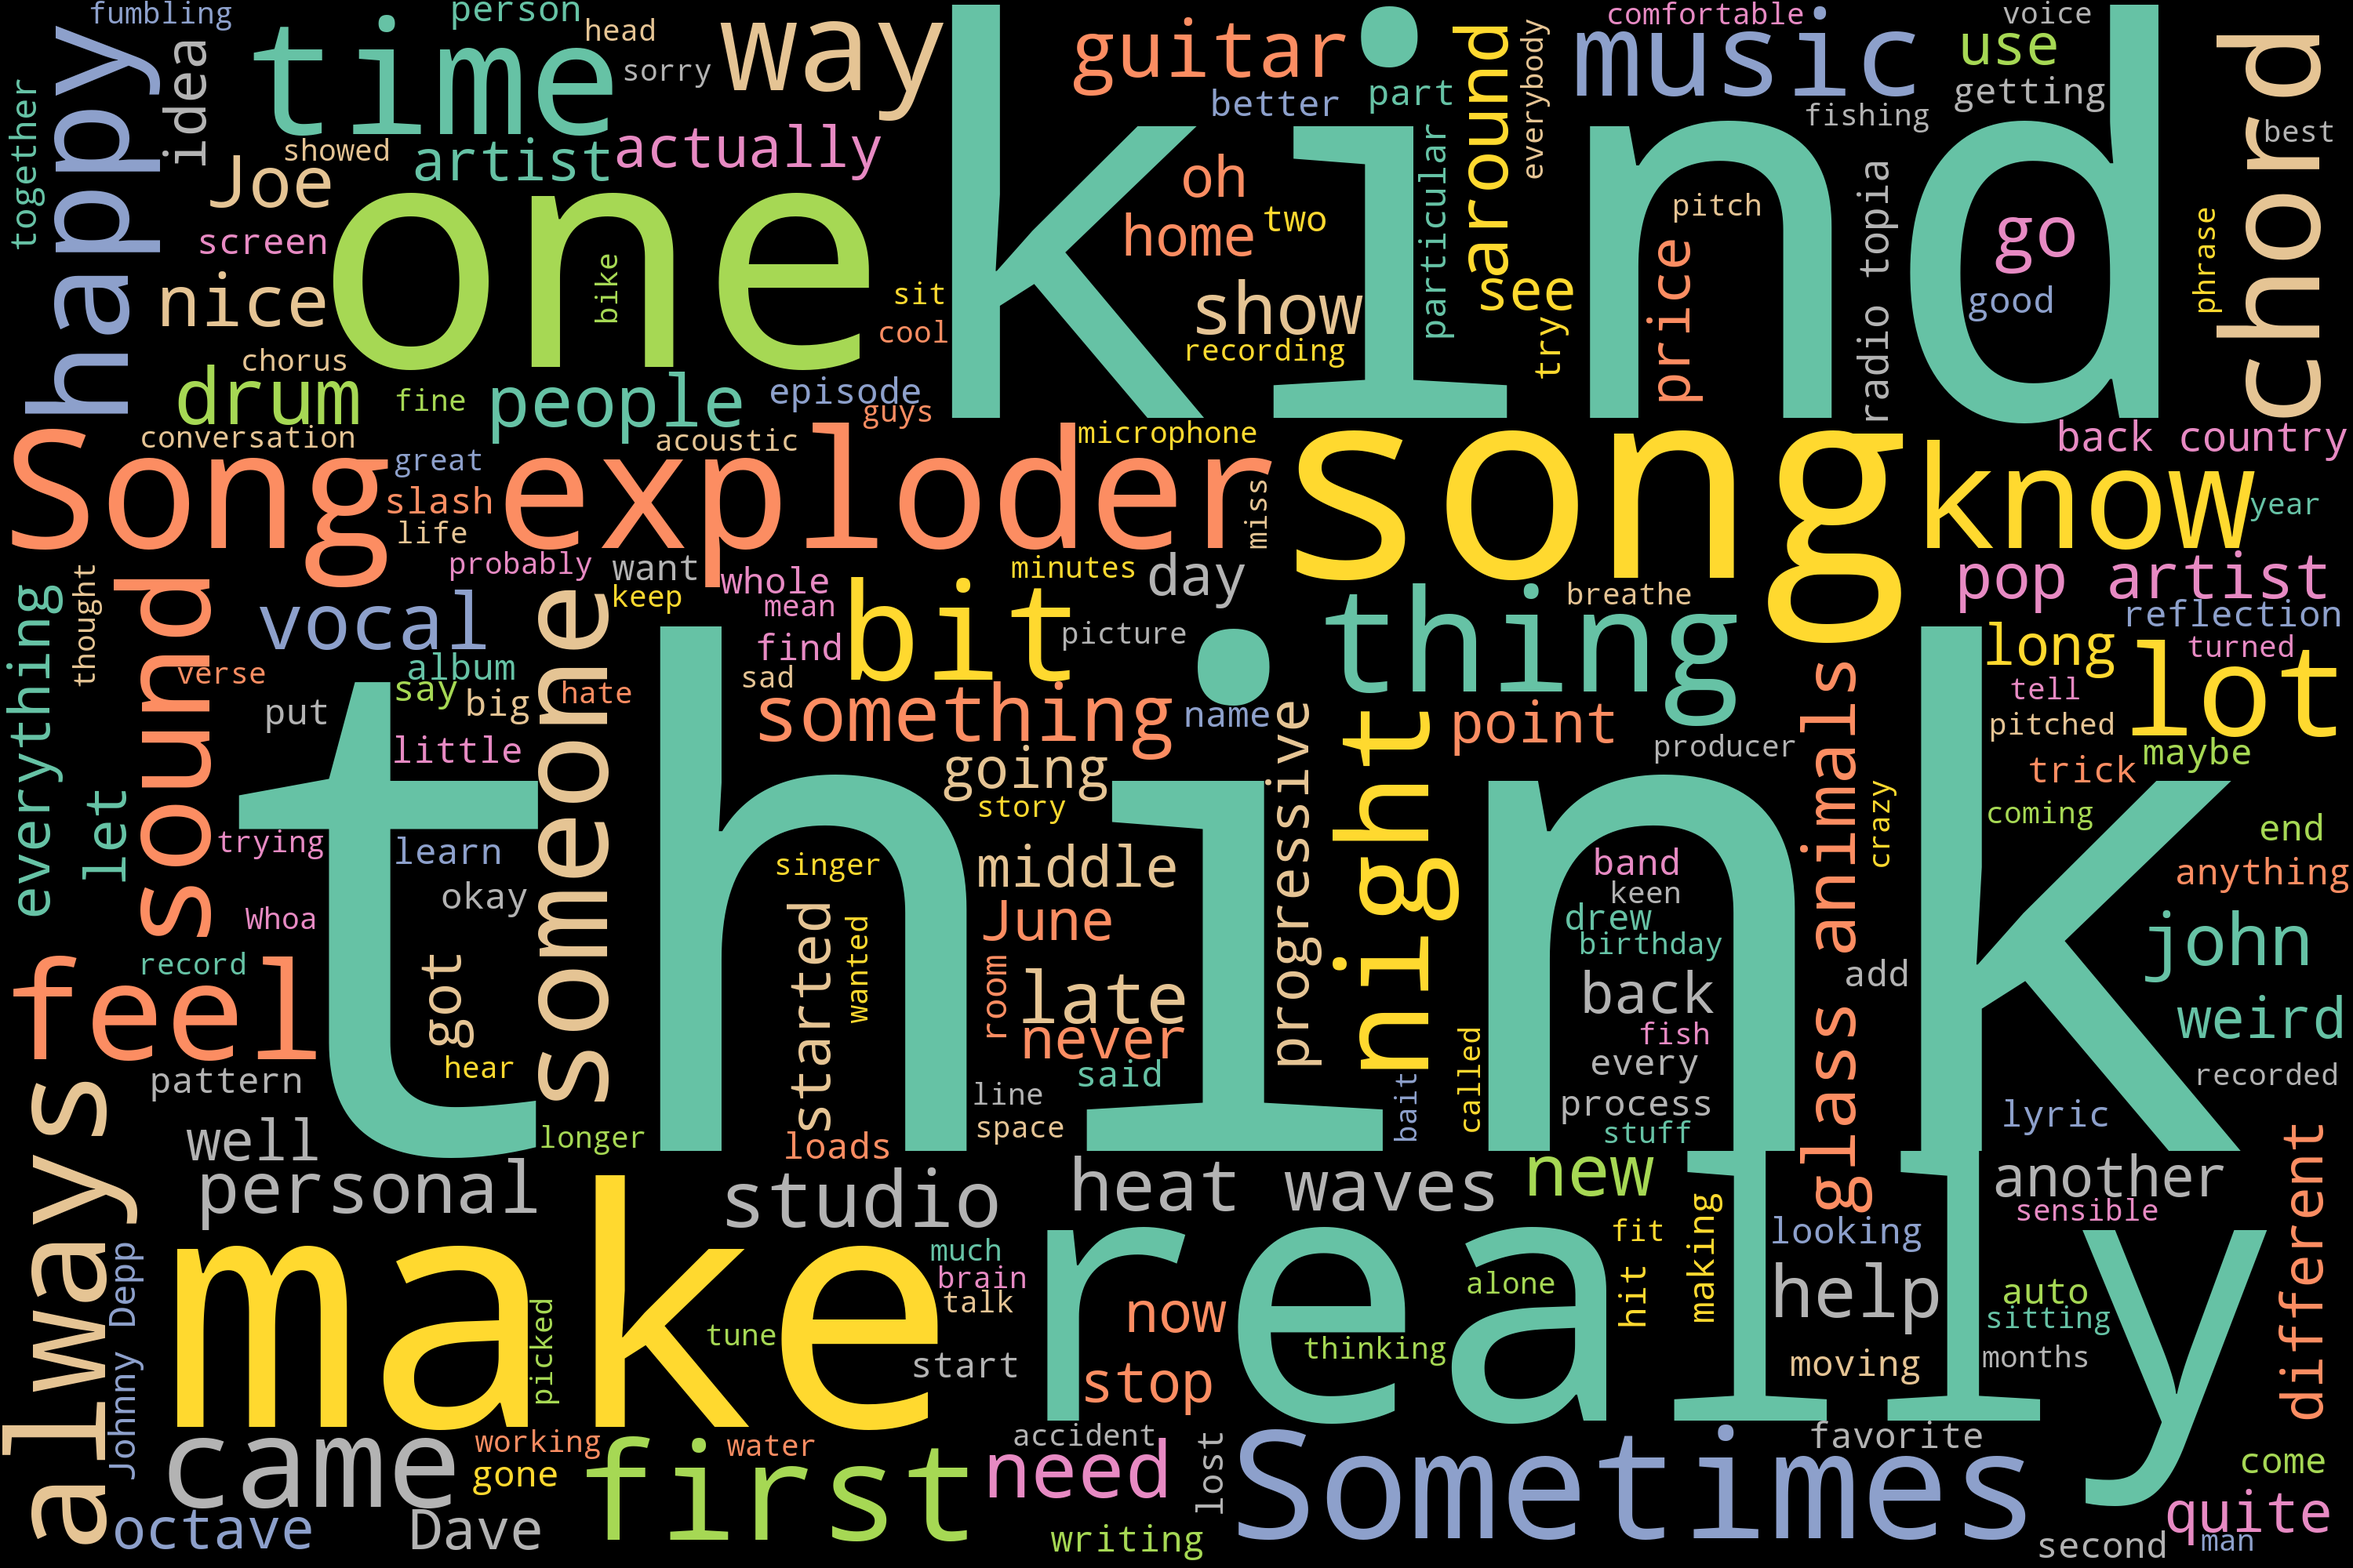
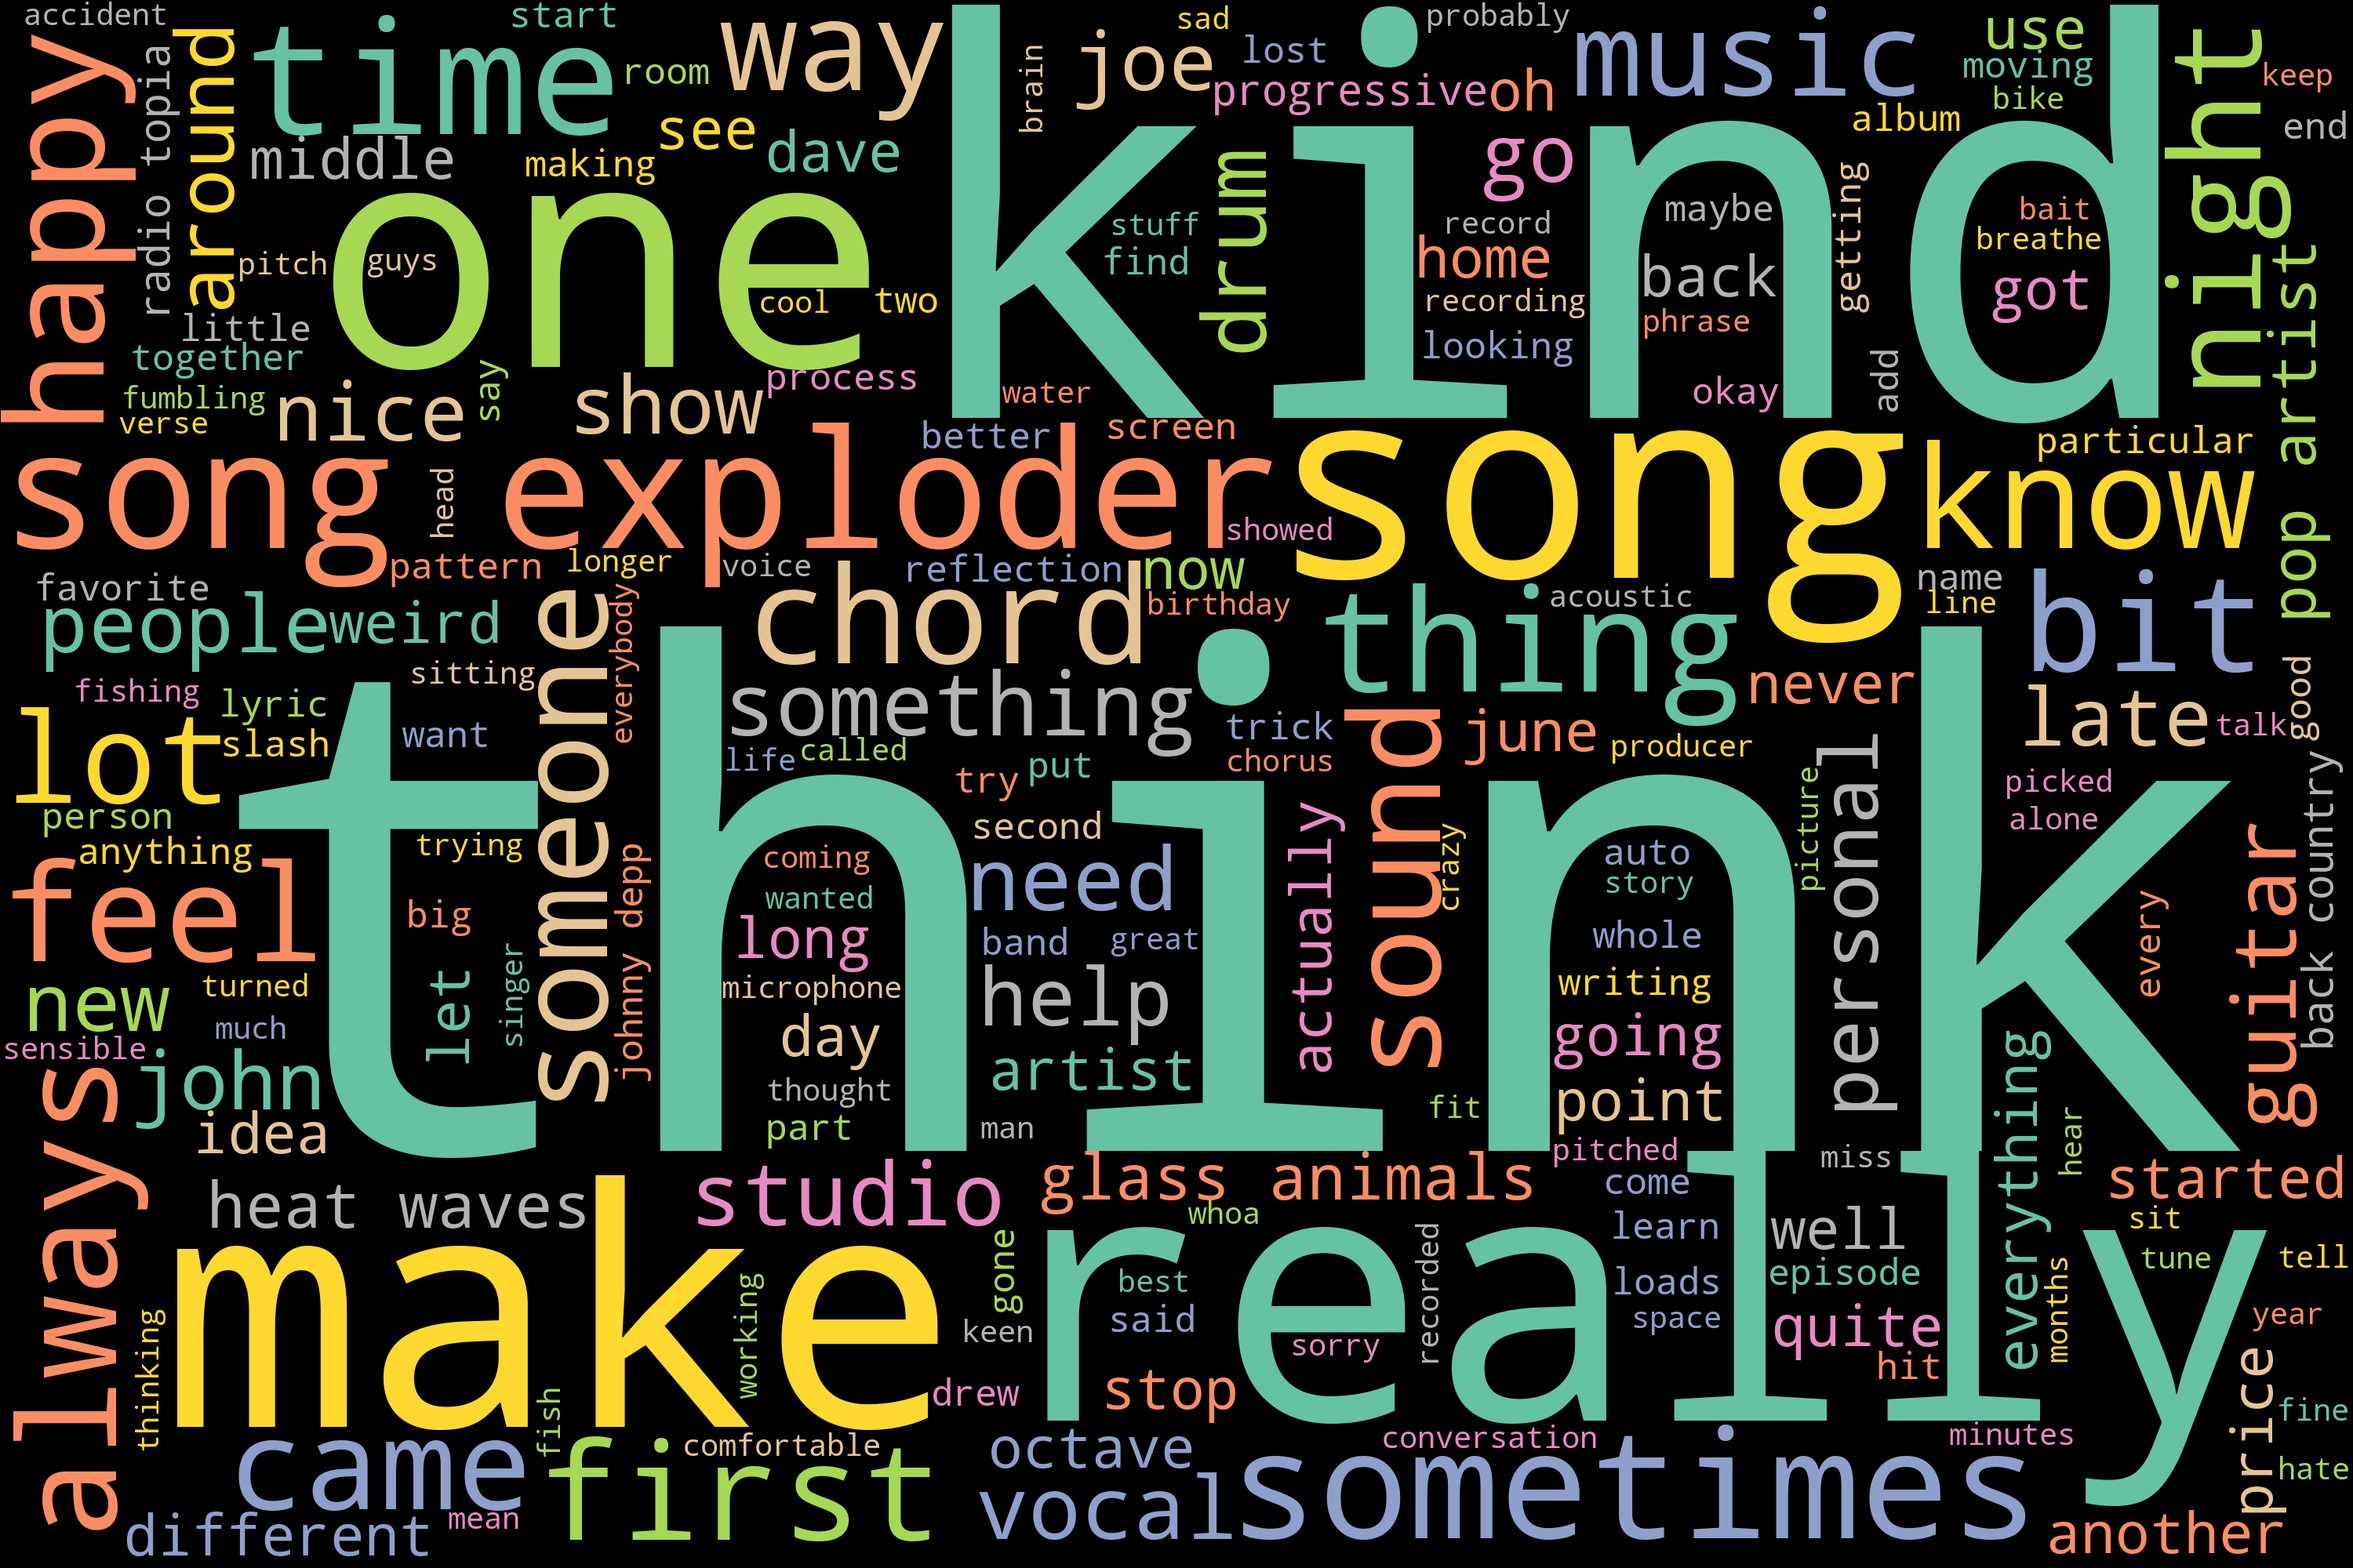
play with masks

diff --git a/generate_wordcloud.py b/generate_wordcloud.py
@@ -1,6 +1,11 @@
 # Import packages
 import matplotlib.pyplot as plt
 from wordcloud import WordCloud, STOPWORDS
+import numpy as np
+from PIL import Image
+
+
+
 
 # Define a function to plot word cloud
 def plot_cloud(wordcloud):
@@ -12,13 +17,16 @@ def plot_cloud(wordcloud):
     plt.axis("off");
 
 with open('transcripts/glass_animals_heat_waves.txt', 'r+') as f:
-    text = f.read()
+    text = f.read().lower()
+
+# Import image to np.array
+mask = np.array(Image.open('masks/dave_sticker.jpg'))
 
 # Generate word cloud
-wordcloud = WordCloud(width = 3000, height = 2000, random_state=42, background_color='black', colormap='Set2', collocations=True, stopwords = STOPWORDS).generate(text)
+wordcloud = WordCloud(width = 3000, height = 2000, random_state=42, background_color='black', colormap='Set2', collocations=True, stopwords = STOPWORDS, mask=mask).generate(text)
 # Plot
 wc = plot_cloud(wordcloud)
 # plt.show()
 
 # Save image
-wordcloud.to_file("wordclouds/glass_animals_heat_waves_wc.png")
+wordcloud.to_file("wordclouds/glass_animals_heat_waves_wc_mask.png")
